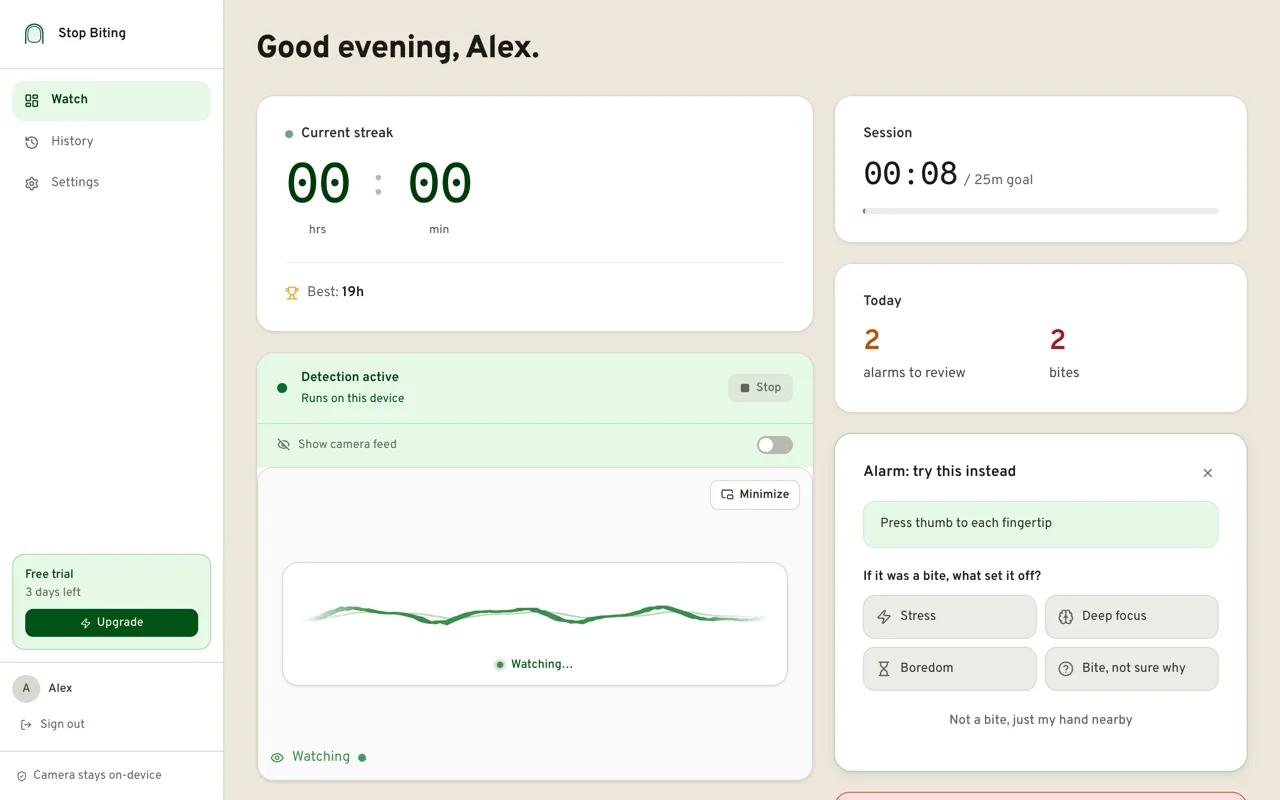
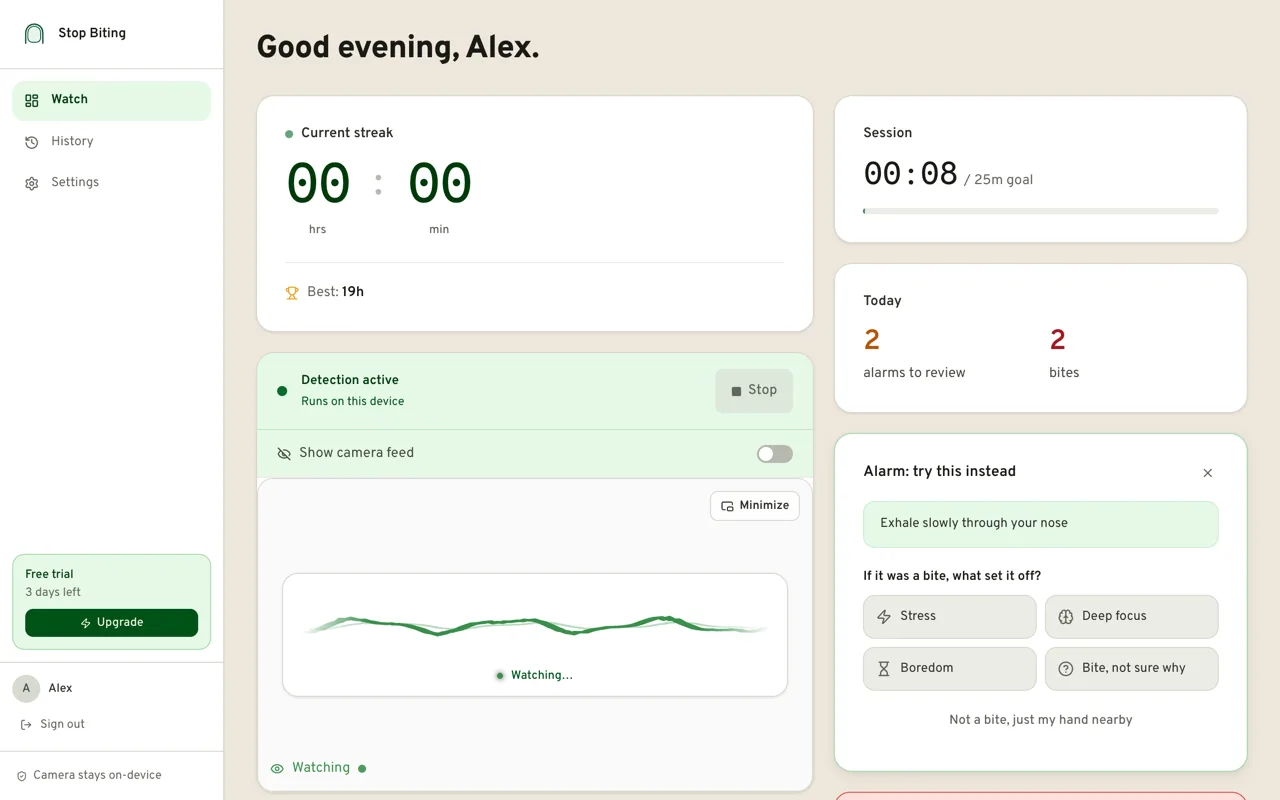
design(loop9 3/10): Stop and the camera-feed switch get real targets
Earlier rounds gave every control 44px, but the two on the detection card were left small: 'Stop' was xs text at about 28px tall, and 'Show camera feed' was a 36x18 track whose label could not be clicked. Stop is now sm text with a 44px target, and the whole 'Show camera feed' row is the switch (role=switch named by its own text, 48px tall, with a subtle hover), the track now decorative inside it. The tour's hide-feed target moves with it. Checked light and dark; homepage app screenshots recaptured.

diff --git a/src/components/dashboard/CameraToggle.tsx b/src/components/dashboard/CameraToggle.tsx
@@ -89,35 +89,42 @@ export function CameraToggle({ problem = null }: { problem?: string | null }) {
         </div>
 
         <button
+          type="button"
           onClick={() => setCameraEnabled(false)}
-          className="flex items-center gap-1.5 px-3 py-1.5 rounded-lg text-xs font-medium text-stone-500 dark:text-stone-400 bg-stone-200/50 dark:bg-ink-400/50 hover:bg-stone-200 dark:hover:bg-ink-400 transition-colors duration-150"
+          className="flex min-h-11 items-center gap-1.5 px-4 rounded-lg text-sm font-medium text-stone-500 dark:text-stone-400 bg-stone-200/50 dark:bg-ink-400/50 hover:bg-stone-200 dark:hover:bg-ink-400 transition-colors duration-150"
         >
-          <Square size={10} fill="currentColor" />
+          <Square size={11} fill="currentColor" aria-hidden="true" />
           Stop
         </button>
       </div>
 
-      {/* Show feed sub-toggle */}
-      <div data-tour="hide-feed" className={`flex items-center justify-between px-5 py-3 border-t ${cameraProblem ? 'border-alert-400/30 dark:border-alert-800/60' : 'border-forest-200/60 dark:border-forest-800/60'}`}>
-        <div className="flex items-center gap-2 text-stone-500 dark:text-stone-400">
-          {showCameraFeed ? <Eye size={13} /> : <EyeOff size={13} />}
-          <span className="text-xs">Show camera feed</span>
-        </div>
-        <button
-          role="switch"
-          aria-checked={showCameraFeed}
-          aria-label="Show camera feed"
-          onClick={() => setShowCameraFeed(!showCameraFeed)}
-          className={`relative w-9 h-[18px] rounded-full transition-colors duration-200 ${
+      {/* Show feed sub-toggle. The whole row is the switch: the 36x18 track
+          alone was the smallest target in the app, and its label was not
+          clickable. */}
+      <button
+        type="button"
+        role="switch"
+        aria-checked={showCameraFeed}
+        data-tour="hide-feed"
+        onClick={() => setShowCameraFeed(!showCameraFeed)}
+        className={`flex min-h-12 w-full items-center justify-between px-5 border-t text-left transition-colors hover:bg-black/[0.02] dark:hover:bg-white/[0.03] ${cameraProblem ? 'border-alert-400/30 dark:border-alert-800/60' : 'border-forest-200/60 dark:border-forest-800/60'}`}
+      >
+        <span className="flex items-center gap-2 text-stone-600 dark:text-stone-300">
+          {showCameraFeed ? <Eye size={14} aria-hidden="true" /> : <EyeOff size={14} aria-hidden="true" />}
+          <span className="text-sm">Show camera feed</span>
+        </span>
+        <span
+          aria-hidden="true"
+          className={`relative h-[18px] w-9 shrink-0 rounded-full transition-colors duration-200 ${
             showCameraFeed ? 'bg-forest-500' : 'bg-stone-300 dark:bg-ink-400'
           }`}
         >
           <span
-            className="absolute top-0.5 left-0.5 w-3.5 h-3.5 bg-white rounded-full shadow-sm transition-transform duration-200"
+            className="absolute top-0.5 left-0.5 h-3.5 w-3.5 rounded-full bg-white shadow-sm transition-transform duration-200"
             style={{ transform: showCameraFeed ? 'translateX(18px)' : 'translateX(0)' }}
           />
-        </button>
-      </div>
+        </span>
+      </button>
     </div>
   );
 }

diff --git a/tasks/design-loop-9.md b/tasks/design-loop-9.md
@@ -1,9 +1,8 @@
 # Design loop, round 9 (10 iterations, every 5 min)
 
-iterations: 2
+iterations: 3
 
 ## Backlog
-- 3: Watch: Stop (~28px) and the camera-feed switch (36x18) are below every other target in the app.
 - 4: Settings: removing a custom bite reason is a 24px instant delete; bigger target and Undo.
 - 6: Homepage ending: guides and the contact form sit after the closing CTA band; move them before FAQ so the offer is the last thing.
 - 7: Homepage closing band headline is the same size as every section heading; give the page a second peak.
@@ -14,3 +13,4 @@ iterations: 2
 ## Log
 - 1/10: History delete has a 6s Undo (restoreIncident + test)
 - 2/10: log-a-bite: honest confirmation with Undo; no emoji or press delay; Cancel 44px
+- 3/10: detection card: Stop 44px; whole 'Show camera feed' row is the switch (48px)
